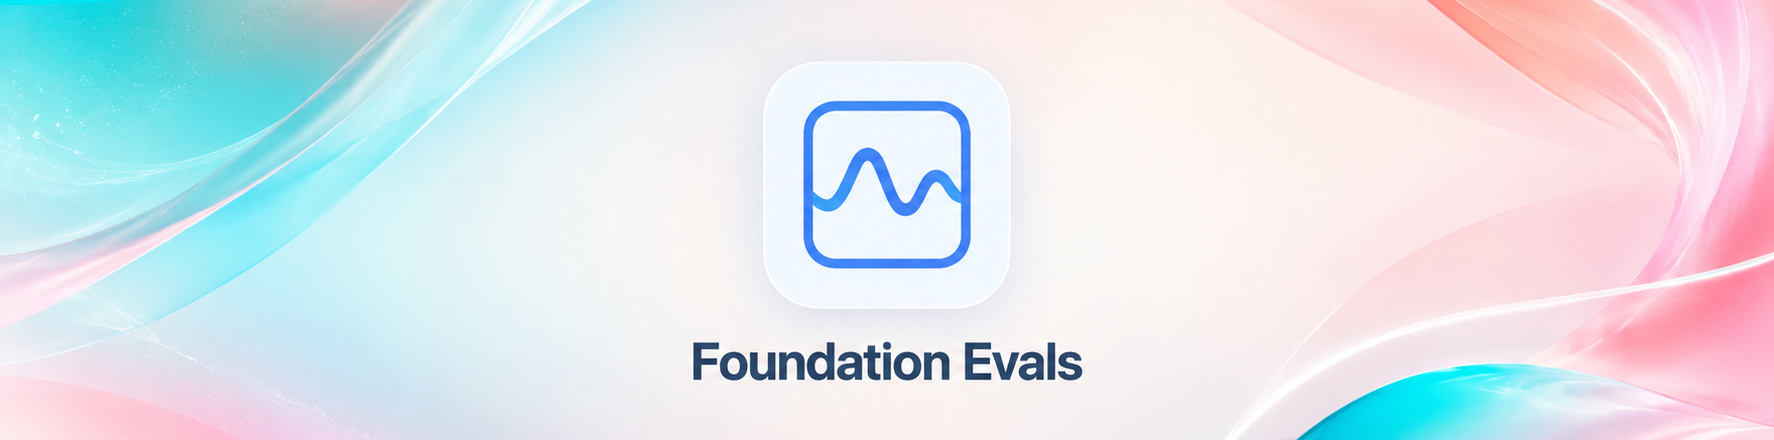
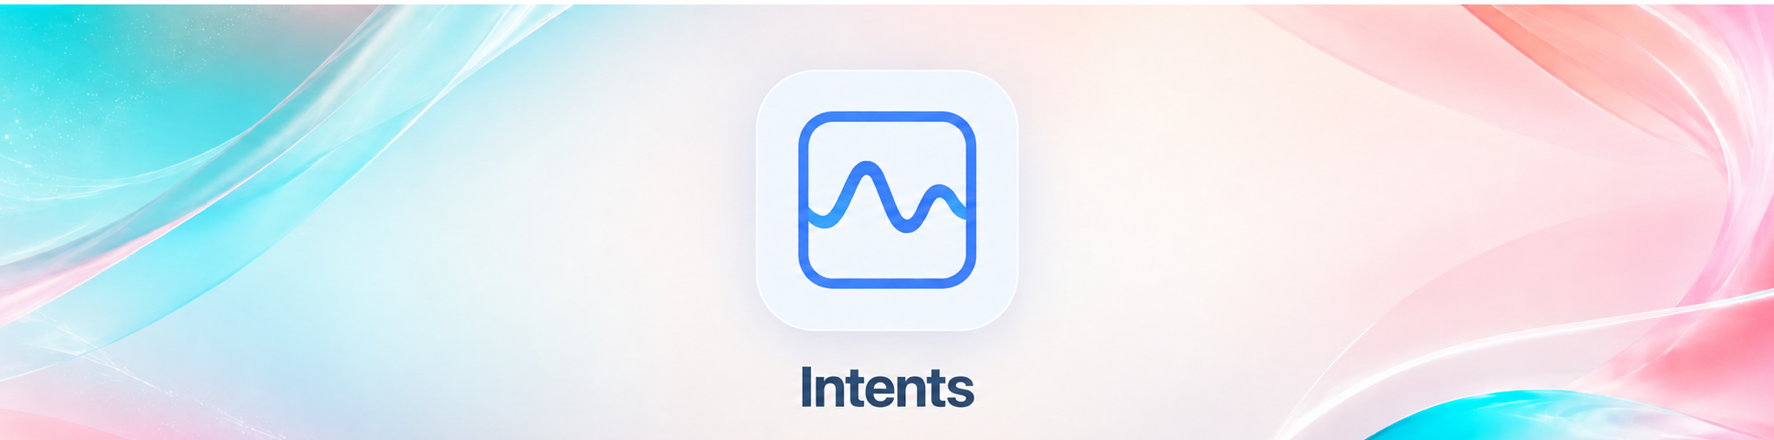
feat(brand): rename app to Intents (#48)
What changed:
* Rename the user-facing macOS app, documentation, developer runner copy, and release artifacts to Intents.
* Point package, update-feed, release, and historical GitHub links at coryparrry/Intents.
* Refresh the README banner and social preview artwork for the new name.

User effect:
* The app now builds and presents itself as Intents across macOS, installation, documentation, and GitHub-facing assets while retaining internal compatibility identifiers.

Tests completed:
* xcodebuild macOS Debug build — passed.
* Python unit suite — 91 tests passed.
* swift test with a clean scratch path — 58 tests passed.
* codesign --verify --deep --strict on Intents.app — passed.
* git diff --check — passed.

diff --git a/FoundationEvals/FoundationEvals/Views/MCPSettingsView.swift b/FoundationEvals/FoundationEvals/Views/MCPSettingsView.swift
@@ -12,7 +12,7 @@ struct MCPSettingsView: View {
                         .foregroundStyle(statusColor)
                 }
 
-                Text("Foundation Evals uses one fixed local address and starts the connector automatically after Codex setup.")
+                Text("Intents uses one fixed local address and starts the connector automatically after Codex setup.")
                     .font(.callout)
                     .foregroundStyle(.secondary)
 
@@ -34,7 +34,7 @@ struct MCPSettingsView: View {
                         .foregroundStyle(controller.installationState == .needsAttention ? .orange : .secondary)
                 }
 
-                Text("Choose Connect once. Foundation Evals updates Codex, starts the local connector, and starts it automatically whenever the app is open.")
+                Text("Choose Connect once. Intents updates Codex, starts the local connector, and starts it automatically whenever the app is open.")
                     .font(.callout)
                     .foregroundStyle(.secondary)
 
@@ -66,7 +66,7 @@ struct MCPSettingsView: View {
         .frame(width: 620, height: 440)
         .navigationTitle("MCP Connector")
         .confirmationDialog(
-            "Remove Foundation Evals from Codex?",
+            "Remove Intents from Codex?",
             isPresented: $isConfirmingRemoval,
             titleVisibility: .visible
         ) {
@@ -75,7 +75,7 @@ struct MCPSettingsView: View {
             }
             Button("Cancel", role: .cancel) { }
         } message: {
-            Text("Only the managed Foundation Evals block is removed. Restart Codex afterward.")
+            Text("Only the managed Intents block is removed. Restart Codex afterward.")
         }
         .alert(
             "MCP Connector",

diff --git a/FoundationEvals/FoundationEvals/MCP/Installer/MCPSettingsController.swift b/FoundationEvals/FoundationEvals/MCP/Installer/MCPSettingsController.swift
@@ -115,9 +115,9 @@ final class MCPSettingsController {
             userDefaults.removeObject(forKey: Self.legacyPortKey)
             installationState = .installed
             let successNotice: String? = switch receipt.change {
-            case .installed: "Foundation Evals is ready. Restart Codex to connect."
+            case .installed: "Intents is ready. Restart Codex to connect."
             case .updated: "The Codex connection was updated. Restart Codex to reconnect."
-            case .unchanged: "Foundation Evals is ready. Restart Codex if it does not appear."
+            case .unchanged: "Intents is ready. Restart Codex if it does not appear."
             case .removed: nil
             }
             do {
@@ -142,8 +142,8 @@ final class MCPSettingsController {
             userDefaults.removeObject(forKey: Self.legacyPortKey)
             installationState = .notConfigured
             notice = receipt.change == .removed
-                ? "Foundation Evals was removed from Codex. Restart Codex to apply the change."
-                : "No managed Foundation Evals entry was present."
+                ? "Intents was removed from Codex. Restart Codex to apply the change."
+                : "No managed Intents entry was present."
         } catch {
             installationState = .needsAttention
             notice = safeDescription(for: error)

diff --git a/FoundationEvals/FoundationEvals/Services/EvaluationHTTPLanguageModel.swift b/FoundationEvals/FoundationEvals/Services/EvaluationHTTPLanguageModel.swift
@@ -69,7 +69,7 @@ struct EvaluationCustomProviderConfiguration: Codable, Equatable, Hashable, Send
             return "Custom provider endpoint must use literal http://127.0.0.1:<port>/... without credentials, a query, or a fragment."
         }
         guard port != Self.reservedMCPPort else {
-            return "Port \(Self.reservedMCPPort) is reserved for the Foundation Evals MCP server."
+            return "Port \(Self.reservedMCPPort) is reserved for the Intents MCP server."
         }
         if let tokenizerEndpoint, !tokenizerEndpoint.isEmpty {
             guard tokenizerEndpoint.utf8.count <= 2_048 else {
@@ -87,7 +87,7 @@ struct EvaluationCustomProviderConfiguration: Codable, Equatable, Hashable, Send
                 return "Custom provider tokenizer endpoint must use literal http://127.0.0.1:<port>/... without credentials, a query, or a fragment."
             }
             if tokenizerPort == Self.reservedMCPPort {
-                return "Port \(Self.reservedMCPPort) is reserved for the Foundation Evals MCP server."
+                return "Port \(Self.reservedMCPPort) is reserved for the Intents MCP server."
             }
         }
         return nil

diff --git a/Sources/FoundationEvalsDeveloper/DeveloperRunnerView.swift b/Sources/FoundationEvalsDeveloper/DeveloperRunnerView.swift
@@ -23,7 +23,7 @@ public struct DeveloperRunnerView: View {
                     ContentUnavailableView(
                         "No Features Registered",
                         systemImage: "shippingbox",
-                        description: Text("Register at least one feature before connecting Foundation Evals.")
+                        description: Text("Register at least one feature before connecting Intents.")
                     )
                 } else {
                     ForEach(service.features) { feature in
@@ -70,7 +70,7 @@ public struct DeveloperRunnerView: View {
                 }
             }
         }
-        .navigationTitle("Foundation Evals Runner")
+        .navigationTitle("Intents Runner")
         .task {
             service.start()
             await service.refreshFeatures()

diff --git a/FoundationEvals/FoundationEvals/Stores/EvaluationStore.swift b/FoundationEvals/FoundationEvals/Stores/EvaluationStore.swift
@@ -819,7 +819,7 @@ final class EvaluationStore {
               let id = draftSuite.judgeConfiguration.connectionID,
               let connection = judgeConnections.first(where: { $0.id == id }) else { return nil }
         let images = draftSuite.attachments.count { $0.kind == .image }
-        return "Foundation Evals will send each case's instructions, effective input, candidate response, verified reference, bounded tool evidence"
+        return "Intents will send each case's instructions, effective input, candidate response, verified reference, bounded tool evidence"
             + (images > 0 ? ", and \(images) image attachment\(images == 1 ? "" : "s")" : "")
             + " to \(connection.name) at \(connection.baseURL). No application tools, other runs, secrets, or telemetry are sent."
     }

diff --git a/FoundationEvals/FoundationEvals/Views/DeveloperIntegrationGuideView.swift b/FoundationEvals/FoundationEvals/Views/DeveloperIntegrationGuideView.swift
@@ -3,7 +3,7 @@ import SwiftUI
 
 struct DeveloperIntegrationGuideView: View {
     @Environment(\.dismiss) private var dismiss
-    private let packageURL = "https://github.com/coryparrry/Foundation-Eval-Labs.git"
+    private let packageURL = "https://github.com/coryparrry/Intents.git"
 
     var body: some View {
         VStack(spacing: 0) {
@@ -98,7 +98,7 @@ struct DeveloperIntegrationGuideView: View {
     """
     private static let networkConfiguration = """
     <key>NSLocalNetworkUsageDescription</key>
-    <string>Connect to Foundation Evals on your Mac.</string>
+    <string>Connect to Intents on your Mac.</string>
     <key>NSBonjourServices</key>
     <array><string>_fnd-evals._tcp</string></array>
     """

diff --git a/FoundationEvals/FoundationEvals/Services/EvaluationCompatibleJudgeClient.swift b/FoundationEvals/FoundationEvals/Services/EvaluationCompatibleJudgeClient.swift
@@ -274,7 +274,7 @@ actor EvaluationCompatibleJudgeClient {
 
     private func applyHeaders(to request: inout URLRequest, resolved: EvaluationResolvedJudgeConnection) {
         if let apiKey = resolved.apiKey, !apiKey.isEmpty { request.setValue("Bearer \(apiKey)", forHTTPHeaderField: "Authorization") }
-        if resolved.connection.kind == .openRouter { request.setValue("Foundation Evals", forHTTPHeaderField: "X-OpenRouter-Title") }
+        if resolved.connection.kind == .openRouter { request.setValue("Intents", forHTTPHeaderField: "X-OpenRouter-Title") }
     }
 
     private func validate(response: URLResponse, data: Data) throws {

diff --git a/FoundationEvals/FoundationEvals/MCP/Installer/CodexMCPInstaller.swift b/FoundationEvals/FoundationEvals/MCP/Installer/CodexMCPInstaller.swift
@@ -61,7 +61,7 @@ enum CodexMCPInstallerError: Error, Equatable, LocalizedError {
         case .conflictingConfiguration:
             "Codex already has an unmanaged foundation-evals MCP entry. Remove or rename it, then try again."
         case .malformedManagedBlock:
-            "The Foundation Evals managed block is incomplete or duplicated. No changes were made."
+            "The Intents managed block is incomplete or duplicated. No changes were made."
         case .unsafeFile:
             "The selected configuration target is not a regular file. No changes were made."
         case .concurrentModification:

diff --git a/FoundationEvals/FoundationEvals/Services/EvaluationWorkspacePersistence.swift b/FoundationEvals/FoundationEvals/Services/EvaluationWorkspacePersistence.swift
@@ -363,7 +363,7 @@ enum EvaluationWorkspaceError: LocalizedError, Sendable {
         case .missingProject: "The selected project no longer exists."
         case .missingSuite: "The selected suite no longer exists."
         case .invalidRepositoryPath: "The repository suite path must be a safe relative path."
-        case .repositoryConflict: "The repository suite changed outside Foundation Evals. Review or reload it before saving."
+        case .repositoryConflict: "The repository suite changed outside Intents. Review or reload it before saving."
         }
     }
 }

diff --git a/FoundationEvals/FoundationEvals/Views/SpotlightSearchToolEditor.swift b/FoundationEvals/FoundationEvals/Views/SpotlightSearchToolEditor.swift
@@ -116,7 +116,7 @@ private struct SpotlightContactIdentityEditor: View {
                     values: $identity.phoneNumbers
                 )
 
-                Text("These values are stored in the suite and passed directly to Apple's ContactResolver. Foundation Evals does not read the Contacts database.")
+                Text("These values are stored in the suite and passed directly to Apple's ContactResolver. Intents does not read the Contacts database.")
                     .font(.caption)
                     .foregroundStyle(.secondary)
             }

diff --git a/FoundationEvals/FoundationEvals/MCP/MCPProtocolHandler.swift b/FoundationEvals/FoundationEvals/MCP/MCPProtocolHandler.swift
@@ -351,7 +351,7 @@ actor MCPProtocolHandler {
     }
 
     private static let instructions = """
-    Use Foundation Evals to run repeatable model evaluations and inspect saved evidence.
+    Use Intents to run repeatable model evaluations and inspect saved evidence.
 
     1. Read eval_get_state first. Inspect the existing suite, active run, readiness blocker, selected provider, capabilities, limits, and planned workload. Resolve readiness problems before starting. Preserve the user's current setup unless the requested task requires changing it.
 

diff --git a/FoundationEvals/FoundationEvals/Views/WorkspaceSidebar.swift b/FoundationEvals/FoundationEvals/Views/WorkspaceSidebar.swift
@@ -93,7 +93,7 @@ struct WorkspaceSidebar: View {
         .onChange(of: store.selectedSuiteID) { _, _ in runSearch = "" }
         .safeAreaInset(edge: .top, spacing: 0) {
             VStack(alignment: .leading, spacing: 12) {
-                Label("FOUNDATION EVALS", systemImage: "square.stack.3d.up.fill")
+                Label("INTENTS", systemImage: "square.stack.3d.up.fill")
                     .font(.system(size: 9, weight: .bold)).tracking(1.2)
                     .foregroundStyle(.secondary)
             Menu {
